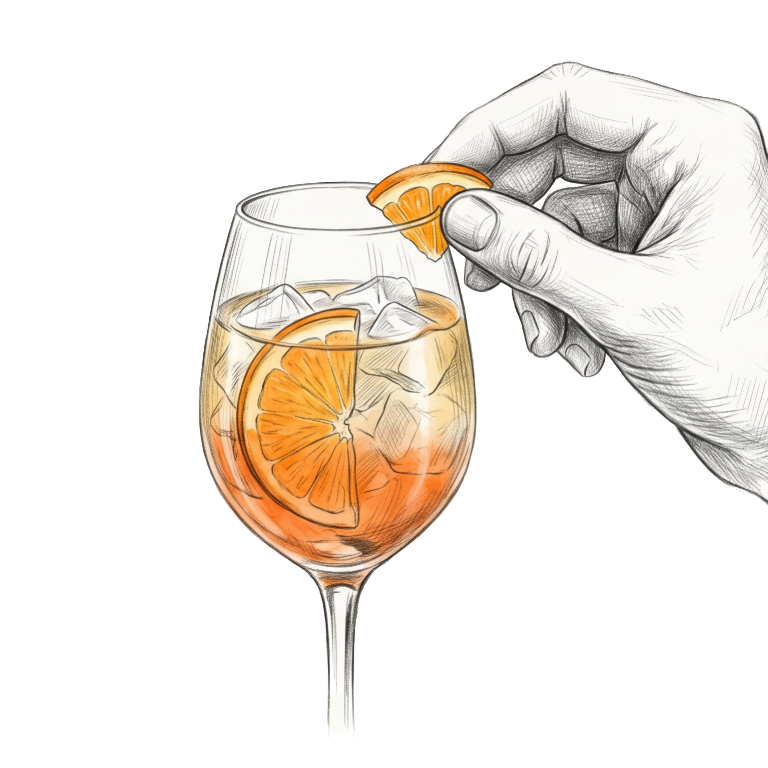
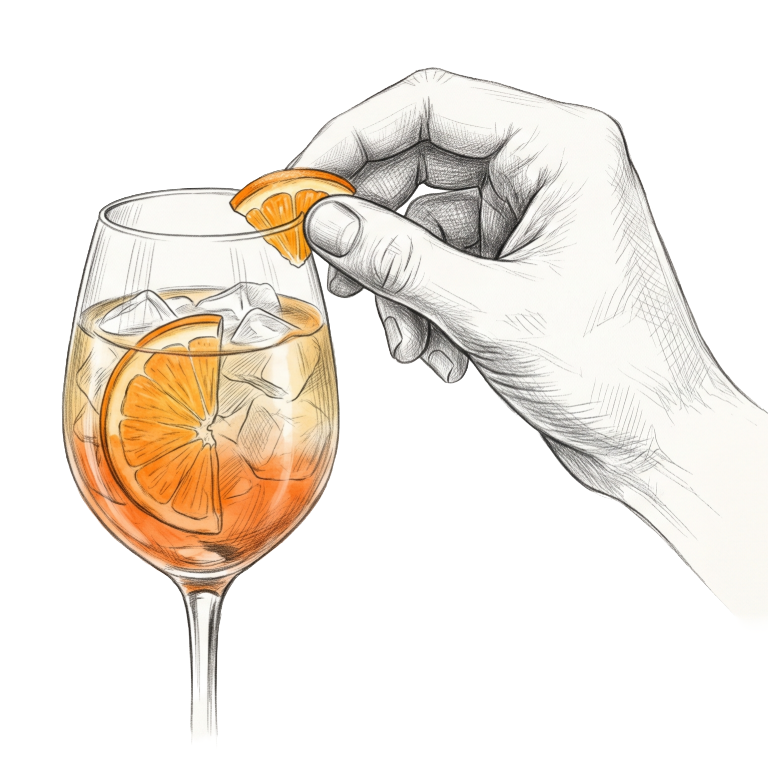
Spritz Menu: swap illustration, pin it to the bottom like Dolci's
New artwork (Aperol Spritz glass, garnish being placed) replaces the
prior sketch. Repositioned to sit flush against the card's bottom
padding, matching where the affogato illustration sits on the Dolci
card, instead of floating right under "Rich & Earthy".

First attempt (flex:1 on .spritz-body-b + margin-top:auto on the image,
mirroring Dolci's .dolci-body pattern) looked right visually but broke
validate.js's crop-line exemption: stretching .spritz-body-b to fill
the page inflated ITS OWN bounding rect down near the image's position,
and since only the <img> carries data-decorative (not its container),
contentBottomIn() picked up the container instead and reported
cropLineOk:false even though no real text was anywhere near the line.
Switched to position:absolute (bottom:0.35in, matching the page's own
bottom padding, left:50%/translateX(-50%) for centering) so the image
never affects any ancestor's layout box at all — .spritz-body-b now
correctly reports its real content height again.

Verified in a real browser: new image loads and renders centered at
the bottom padding edge, Spritz reports fits:true/cropLineOk:true with
contentBottomIn back down to ~8.53in (was incorrectly ~10.65in with
the broken first attempt), and Cocktails/Spirits/Liquori are untouched.

diff --git a/handoff-drinksdessert/expected-render.html b/handoff-drinksdessert/expected-render.html
@@ -259,8 +259,17 @@ body.spritz-design-b .spritz-body-b { display: flex; flex-direction: column; }
 .page.shrink-1pt .item-list[data-list-id="spritz-b-earthy"] .spritz-desc { font-size: 9.75pt; }
 /* Static asset — never shrunk, never measured against the holder crop
    line (see validate.js's contentBottomIn, which skips [data-decorative]
-   elements). See BUILD-SPEC.md §1a/§5. */
-.spritz-image { width: 108px; margin: 7.5px auto 0; display: block; flex-shrink: 0; }
+   elements). See BUILD-SPEC.md §1a/§5.
+   Positioned absolutely against .page (already position:relative) so it
+   sits flush against the bottom padding — same position as the Dolci
+   card's affogato illustration — WITHOUT stretching .spritz-body-b's own
+   box to reach it (a flex:1 + margin-top:auto approach was tried first
+   and rejected: it inflated .spritz-body-b's bounding rect down to the
+   image's position, and since only the <img> itself carries
+   data-decorative, contentBottomIn() picked up the container's box
+   instead and broke the crop-line exemption). Taking the image out of
+   normal flow entirely avoids that. Aug 2026, Joe (direct fix). */
+.spritz-image { position: absolute; bottom: 0.35in; left: 50%; transform: translateX(-50%); width: 108px; }
 </style>
 </head>
 <body>

diff --git a/handoff-drinksdessert/template.html b/handoff-drinksdessert/template.html
@@ -260,8 +260,17 @@ body.spritz-design-b .spritz-body-b { display: flex; flex-direction: column; }
 .page.shrink-1pt .item-list[data-list-id="spritz-b-earthy"] .spritz-desc { font-size: 9.75pt; }
 /* Static asset — never shrunk, never measured against the holder crop
    line (see validate.js's contentBottomIn, which skips [data-decorative]
-   elements). See BUILD-SPEC.md §1a/§5. */
-.spritz-image { width: 108px; margin: 7.5px auto 0; display: block; flex-shrink: 0; }
+   elements). See BUILD-SPEC.md §1a/§5.
+   Positioned absolutely against .page (already position:relative) so it
+   sits flush against the bottom padding — same position as the Dolci
+   card's affogato illustration — WITHOUT stretching .spritz-body-b's own
+   box to reach it (a flex:1 + margin-top:auto approach was tried first
+   and rejected: it inflated .spritz-body-b's bounding rect down to the
+   image's position, and since only the <img> itself carries
+   data-decorative, contentBottomIn() picked up the container's box
+   instead and broke the crop-line exemption). Taking the image out of
+   normal flow entirely avoids that. Aug 2026, Joe (direct fix). */
+.spritz-image { position: absolute; bottom: 0.35in; left: 50%; transform: translateX(-50%); width: 108px; }
 </style>
 </head>
 <body>
